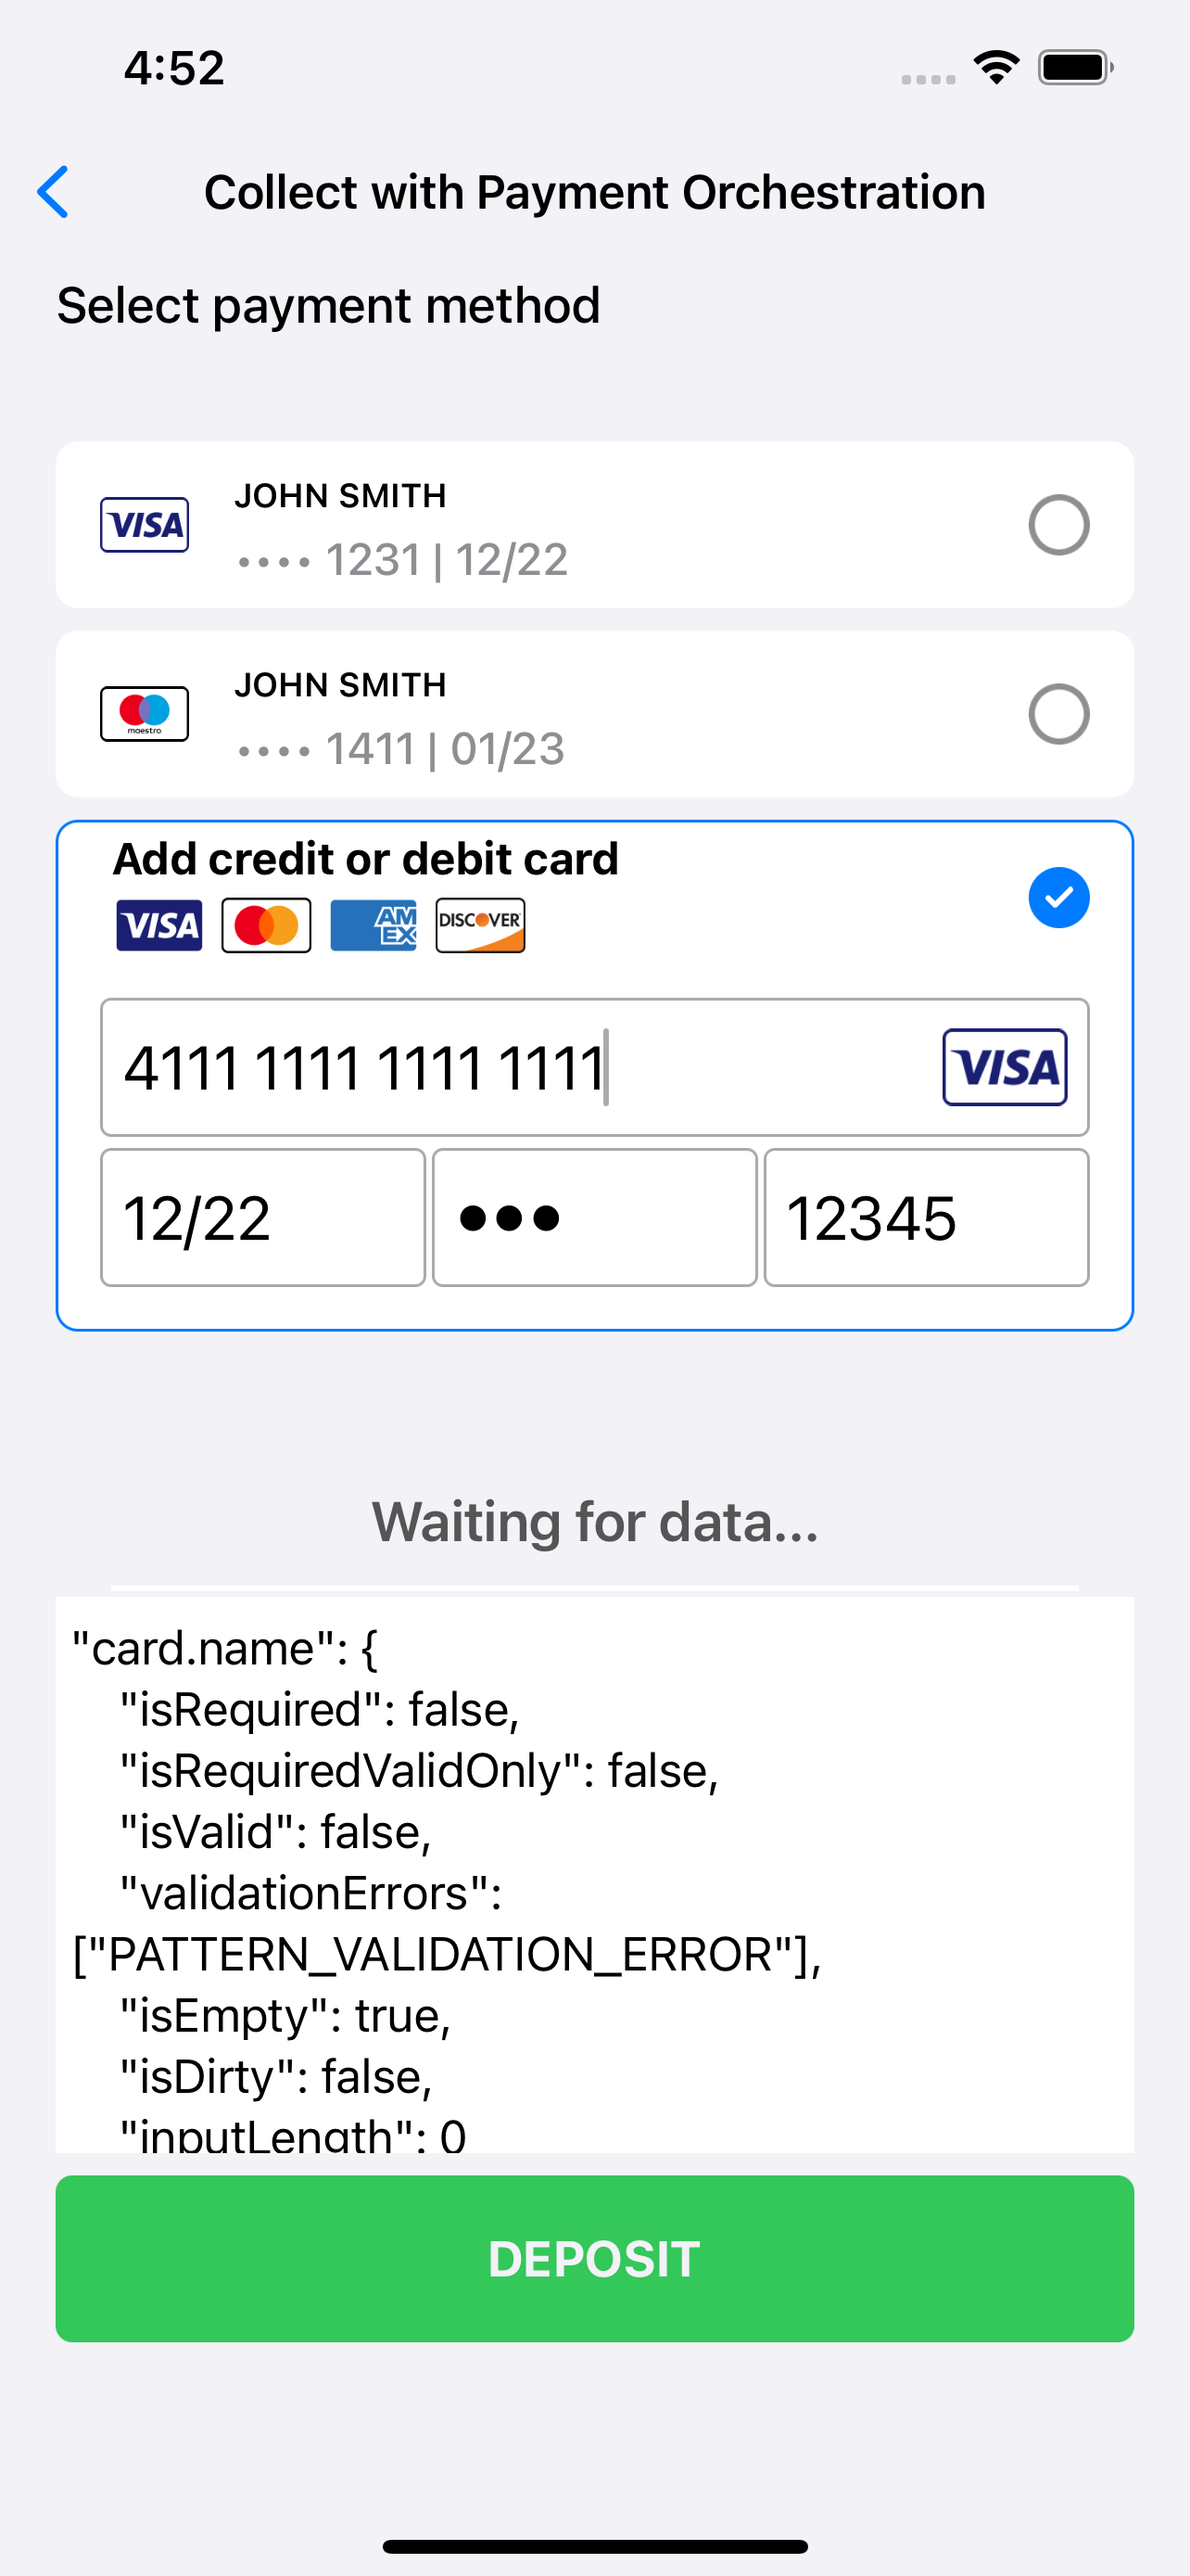
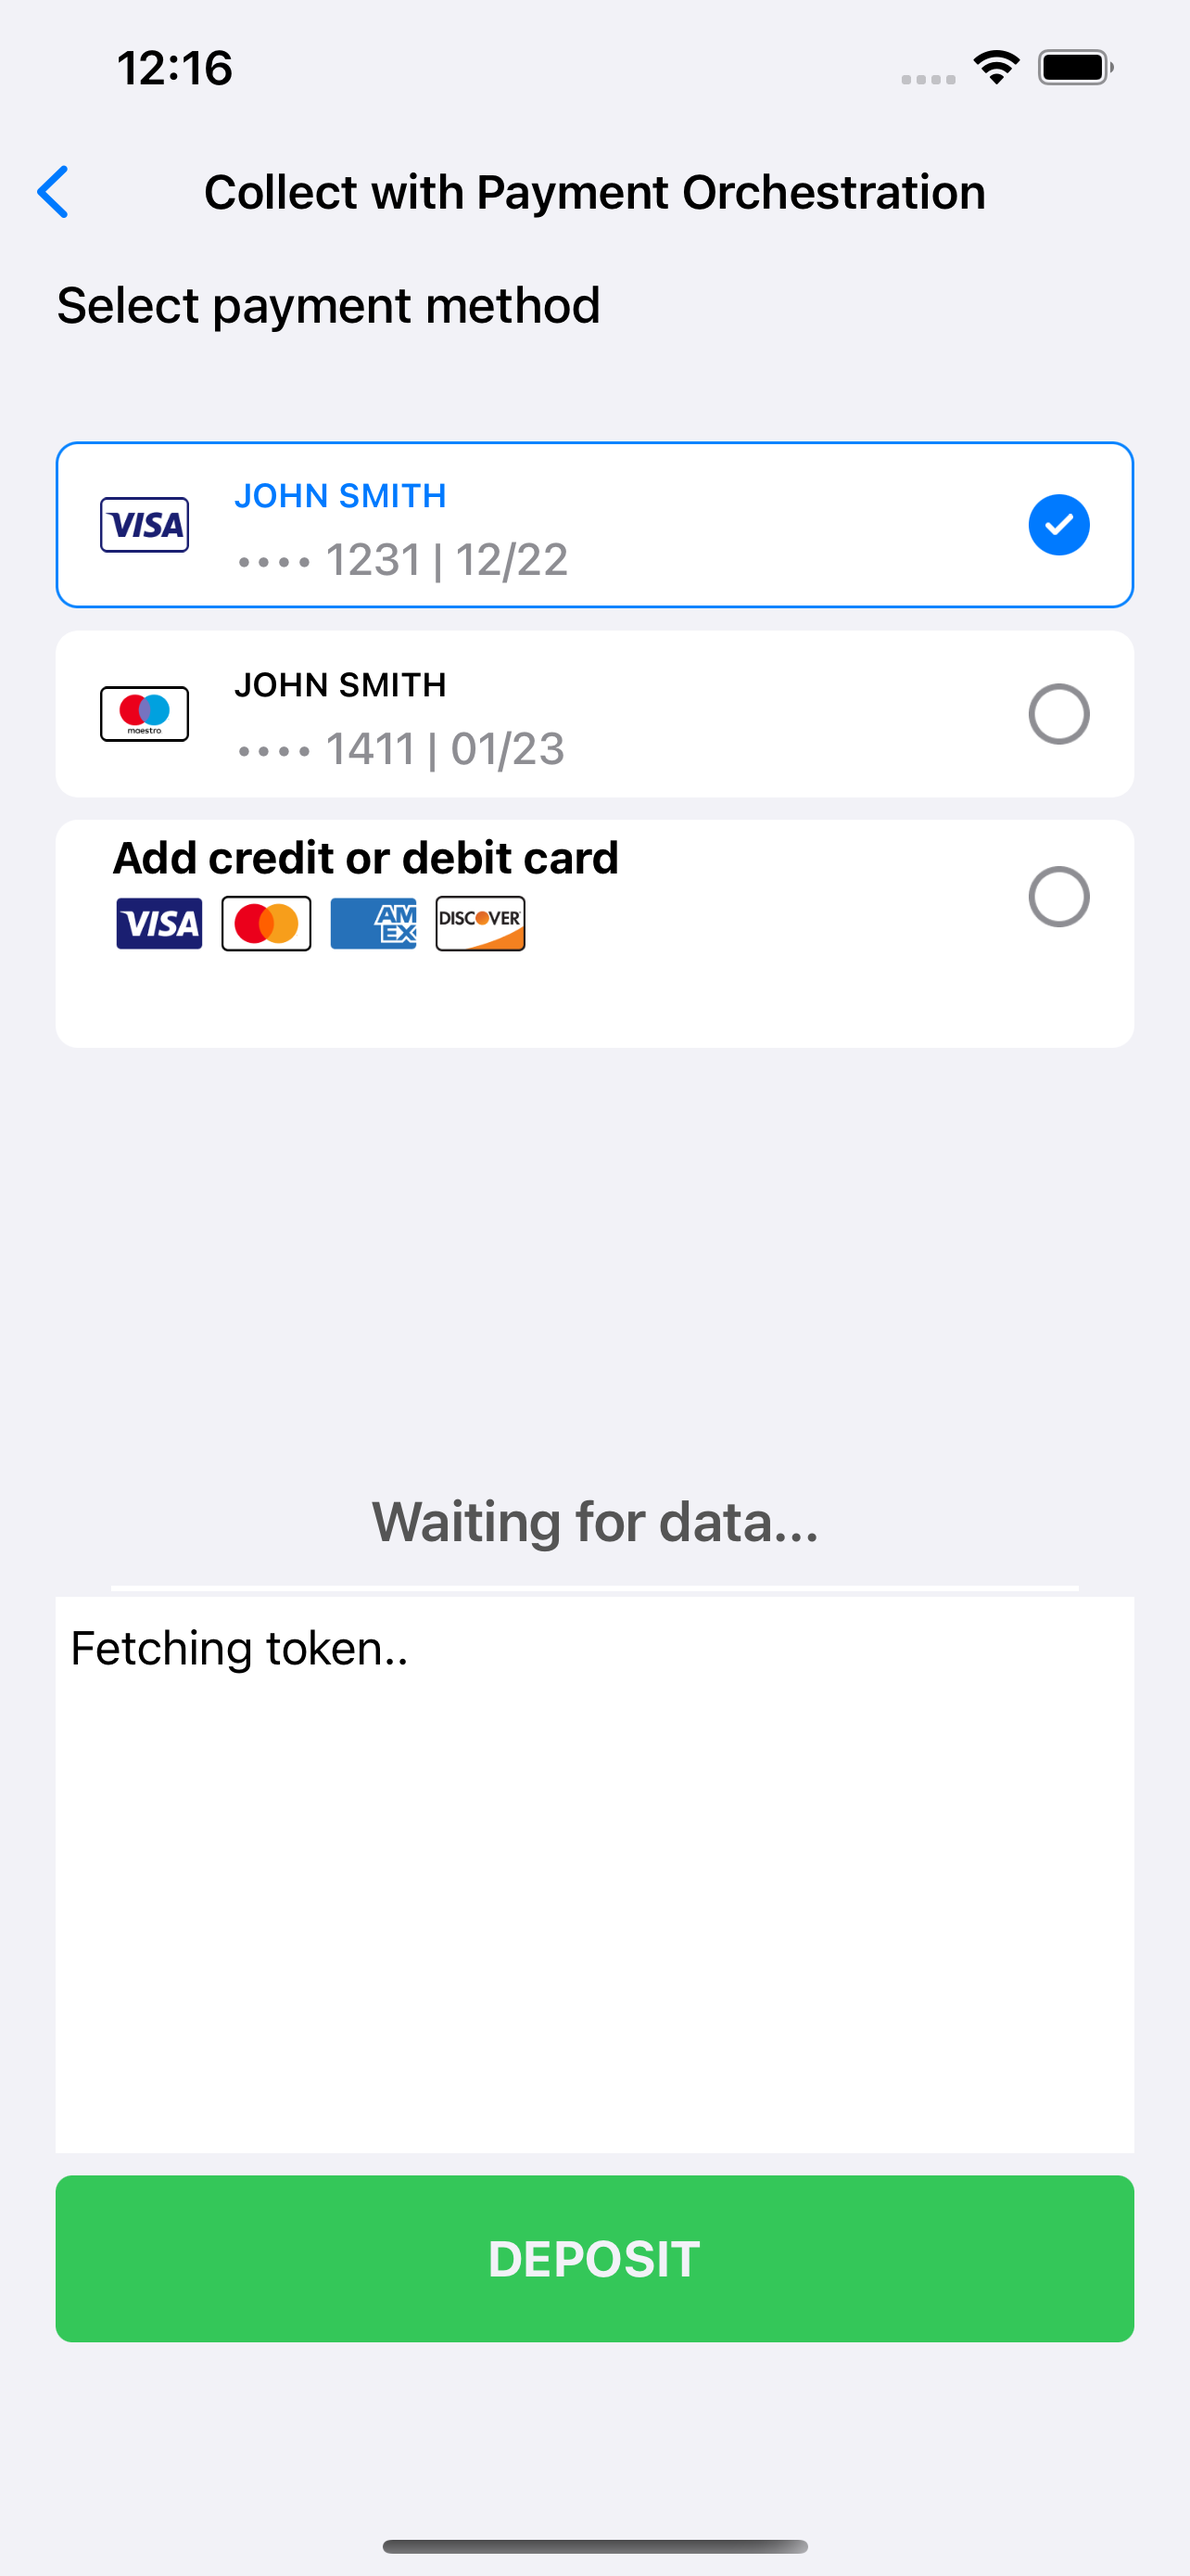
Update readme | update images

diff --git a/demoapp/demoapp/Helpers/Extensions/UIKit+Extensions/UIView+Extensions/UIView+Extensions.swift b/demoapp/demoapp/Helpers/Extensions/UIKit+Extensions/UIView+Extensions/UIView+Extensions.swift
@@ -12,7 +12,7 @@ import UIKit
 internal extension UIView {
 
 	/// Constraints view to super view.
-	func checkout_constraintViewToSuperviewEdges() {
+	func demoapp_constraintViewToSuperviewEdges() {
 		guard let view = superview else {
 			assertionFailure("No superview!")
 			return
@@ -29,7 +29,7 @@ internal extension UIView {
 	}
 
 	/// Constraints view to super view center.
-	func checkout_constraintViewToSuperviewCenter() {
+	func demoapp_constraintViewToSuperviewCenter() {
 		guard let view = superview else {
 			assertionFailure("No superview!")
 			return
@@ -44,7 +44,7 @@ internal extension UIView {
 	}
 
 	/// Constraints view to super view safe area layout guide.
-	func checkout_constraintViewToSafeAreaLayoutGuideEdges() {
+	func demoapp_constraintViewToSafeAreaLayoutGuideEdges() {
 		guard let view = superview else {
 			assertionFailure("No superview!")
 			return
@@ -78,7 +78,7 @@ internal extension UIView {
 	///   - trailing: `CGFloat` object, trailing inset.
 	///   - bottom: `CGFloat` object, bottom inset.
 	///   - top: `CGFloat` object, top inset.
-	func checkout_constraintViewWithPaddingsToSuperview(_ leading: CGFloat, trailing: CGFloat, bottom: CGFloat, top: CGFloat) {
+	func demoapp_constraintViewWithPaddingsToSuperview(_ leading: CGFloat, trailing: CGFloat, bottom: CGFloat, top: CGFloat) {
 		guard let view = superview else {
 			assertionFailure("No superview!")
 			return
@@ -96,7 +96,7 @@ internal extension UIView {
 
 	/// Setups default section insets.
 	func checkout_defaultSectionViewConstraints() {
-		checkout_constraintViewWithPaddingsToSuperview(16, trailing: -16, bottom: 0, top: 16)
+		demoapp_constraintViewWithPaddingsToSuperview(16, trailing: -16, bottom: 0, top: 16)
 	}
 }
 

diff --git a/demoapp/demoapp/UseCases/PayOptIntegration/Views/SavedCardCellActionView/VGSSavedCardCellActionView.swift b/demoapp/demoapp/UseCases/PayOptIntegration/Views/SavedCardCellActionView/VGSSavedCardCellActionView.swift
@@ -96,13 +96,13 @@ internal class VGSSavedCardCellActionView: UIView {
 	private func setupCheckboxUI() {
 		addSubview(checkbox)
 		checkbox.translatesAutoresizingMaskIntoConstraints = false
-		checkbox.checkout_constraintViewToSuperviewCenter()
+		checkbox.demoapp_constraintViewToSuperviewCenter()
 	}
 
 	/// Setups remove button UI.
 	private func setupRemoveButtonUI() {
 		addSubview(removeCardButton)
-		removeCardButton.checkout_constraintViewToSuperviewEdges()
+		removeCardButton.demoapp_constraintViewToSuperviewEdges()
 		removeCardButton.addTarget(self, action: #selector(removeCardButtonDidTap), for: .touchUpInside)
 	}
 

diff --git a/demoapp/demoapp/UseCases/PayOptIntegration/Views/HelperViews/VGSRoundedCheckboxTheme.swift b/demoapp/demoapp/UseCases/PayOptIntegration/Views/HelperViews/VGSRoundedCheckboxTheme.swift
@@ -65,7 +65,7 @@ internal class VGSRoundedCheckbox: UIView {
 		super.init(frame: .zero)
 
 		addSubview(imageView)
-		imageView.checkout_constraintViewToSuperviewEdges()
+		imageView.demoapp_constraintViewToSuperviewEdges()
 		addSubview(checkmarkImageView)
 		checkmarkImageView.centerYAnchor.constraint(equalTo: centerYAnchor).isActive = true
 		checkmarkImageView.centerXAnchor.constraint(equalTo: centerXAnchor).isActive = true

diff --git a/demoapp/demoapp/UseCases/PayOptIntegration/Views/TableViewCells/AddCardCell.swift b/demoapp/demoapp/UseCases/PayOptIntegration/Views/TableViewCells/AddCardCell.swift
@@ -41,6 +41,7 @@ class AddCardCell: UITableViewCell {
 		overlayView.layer.borderColor = UIColor.systemBlue.cgColor
 		overlayView.layer.cornerRadius = 8
 
+		overlayView.backgroundColor = UIColor.vgsPaymentOptionBackgroundColor
 		actionView.translatesAutoresizingMaskIntoConstraints = false
 		actionView.widthAnchor.constraint(equalToConstant: 30).isActive = true
 		topContainerView.addSubview(actionView)

diff --git a/demoapp/demoapp/UseCases/PayOptIntegration/CollectPaymentOptIntegrationViewController.swift b/demoapp/demoapp/UseCases/PayOptIntegration/CollectPaymentOptIntegrationViewController.swift
@@ -381,7 +381,7 @@ extension CollectPayoptIntegrationViewConroller: UITableViewDelegate, UITableVie
 			if selectedIndexPath.row == index {
 				return 192
 			} else {
-				return 64
+				return 90
 			}
 		case .savedCard:
 			return UITableView.automaticDimension

diff --git a/demoapp/demoapp/UseCases/PayOptIntegration/Views/HelperViews/VGSPaymentOptionItemContainerView.swift b/demoapp/demoapp/UseCases/PayOptIntegration/Views/HelperViews/VGSPaymentOptionItemContainerView.swift
@@ -38,6 +38,6 @@ internal class VGSPaymentOptionItemContainerView: UIView {
 	/// Setup UI.
 	private func setupUI() {
 		addSubview(stackView)
-		stackView.checkout_constraintViewToSuperviewEdges()
+		stackView.demoapp_constraintViewToSuperviewEdges()
 	}
 }

diff --git a/demoapp/demoapp/UseCases/PayOptIntegration/Collect+PaymentOrchestration.md b/demoapp/demoapp/UseCases/PayOptIntegration/Collect+PaymentOrchestration.md
@@ -20,11 +20,15 @@ Check `CollectPayoptIntegrationViewConroller` class which illustrates how to use
 
 ## Steps to integrate Collect with Payment Orchestration
 
-### 1.Implement your custom backend and iOS API client to fetch access token valid for Payment Orchestration operations.  
+#### 1.Implement your custom backend.
+  
+  Implement your iOS API client to fetch access token valid for Payment Orchestration operations.  
 
-### 2. Setup VGS Collect instance.
+#### 2.Setup VGS Collect instance.
 
-### 3. Build your own UI with `VGSTextFields` and connect `VGSCollect` instance to text fields. ayload structure for payment optimization should match the following structure:
+#### 3.Build your own UI with `VGSTextFields`.
+
+		Add `VGSTextFields` and and connect `VGSCollect` instance to text fields. ayload structure for payment optimization should match the following structure:
 
 ```JSON
 {
@@ -40,14 +44,16 @@ Check `CollectPayoptIntegrationViewConroller` class which illustrates how to use
 
 Set proper fielnames to match payment optimization JSON.
 
-### 4. Collect and submit card data to Payment Orchestration to create financial instrument. Don't forget to set authorization token. 
+#### 4.Submit data.
+     
+     Collect and submit card data to Payment Orchestration to create financial instrument. Don't forget to set authorization token. 
 
 ```swift
-   		vgsCollectNewCardFlow.customHeaders = ["Authorization": "Bearer \(payOptAccessToken)"]
+vgsCollectNewCardFlow.customHeaders = ["Authorization": "Bearer \(payOptAccessToken)"]
 		/// Send card data to "financial_instruments" path
 		vgsCollectNewCardFlow.sendData(path: "/financial_instruments", routeId: AppCollectorConfiguration.shared.paymentOrchestrationDefaultRouteId) { [weak self] response in
 			switch response {
-			case .success(_, let data, _):
+		case .success(_, let data, _):
 				/// Get fin instrument from response data
 				guard let finId = self?.apiClient.financialInstrumentID(from: data) else {
 					print("can't parse fin_id from data!")
@@ -57,14 +63,16 @@ Set proper fielnames to match payment optimization JSON.
 				AppCollectorConfiguration.shared.savedFinancialInstruments.append(finId)
 				/// Make deposit request
 				self?.deposit(50, finId: finId)
-			case .failure(let code,  _, _, let error):
+		case .failure(let code,  _, _, let error):
 				print("\(code) + \(String(describing: error))")
 				return
-			}
 		}
+}
 ```
 
-###5. If needed store created financial instruments on your side to display saved cards in future.
+#### 5. Save financial instrument. 
+   
+   If needed store created financial instruments on your side to display saved cards in future.
 
 
 
